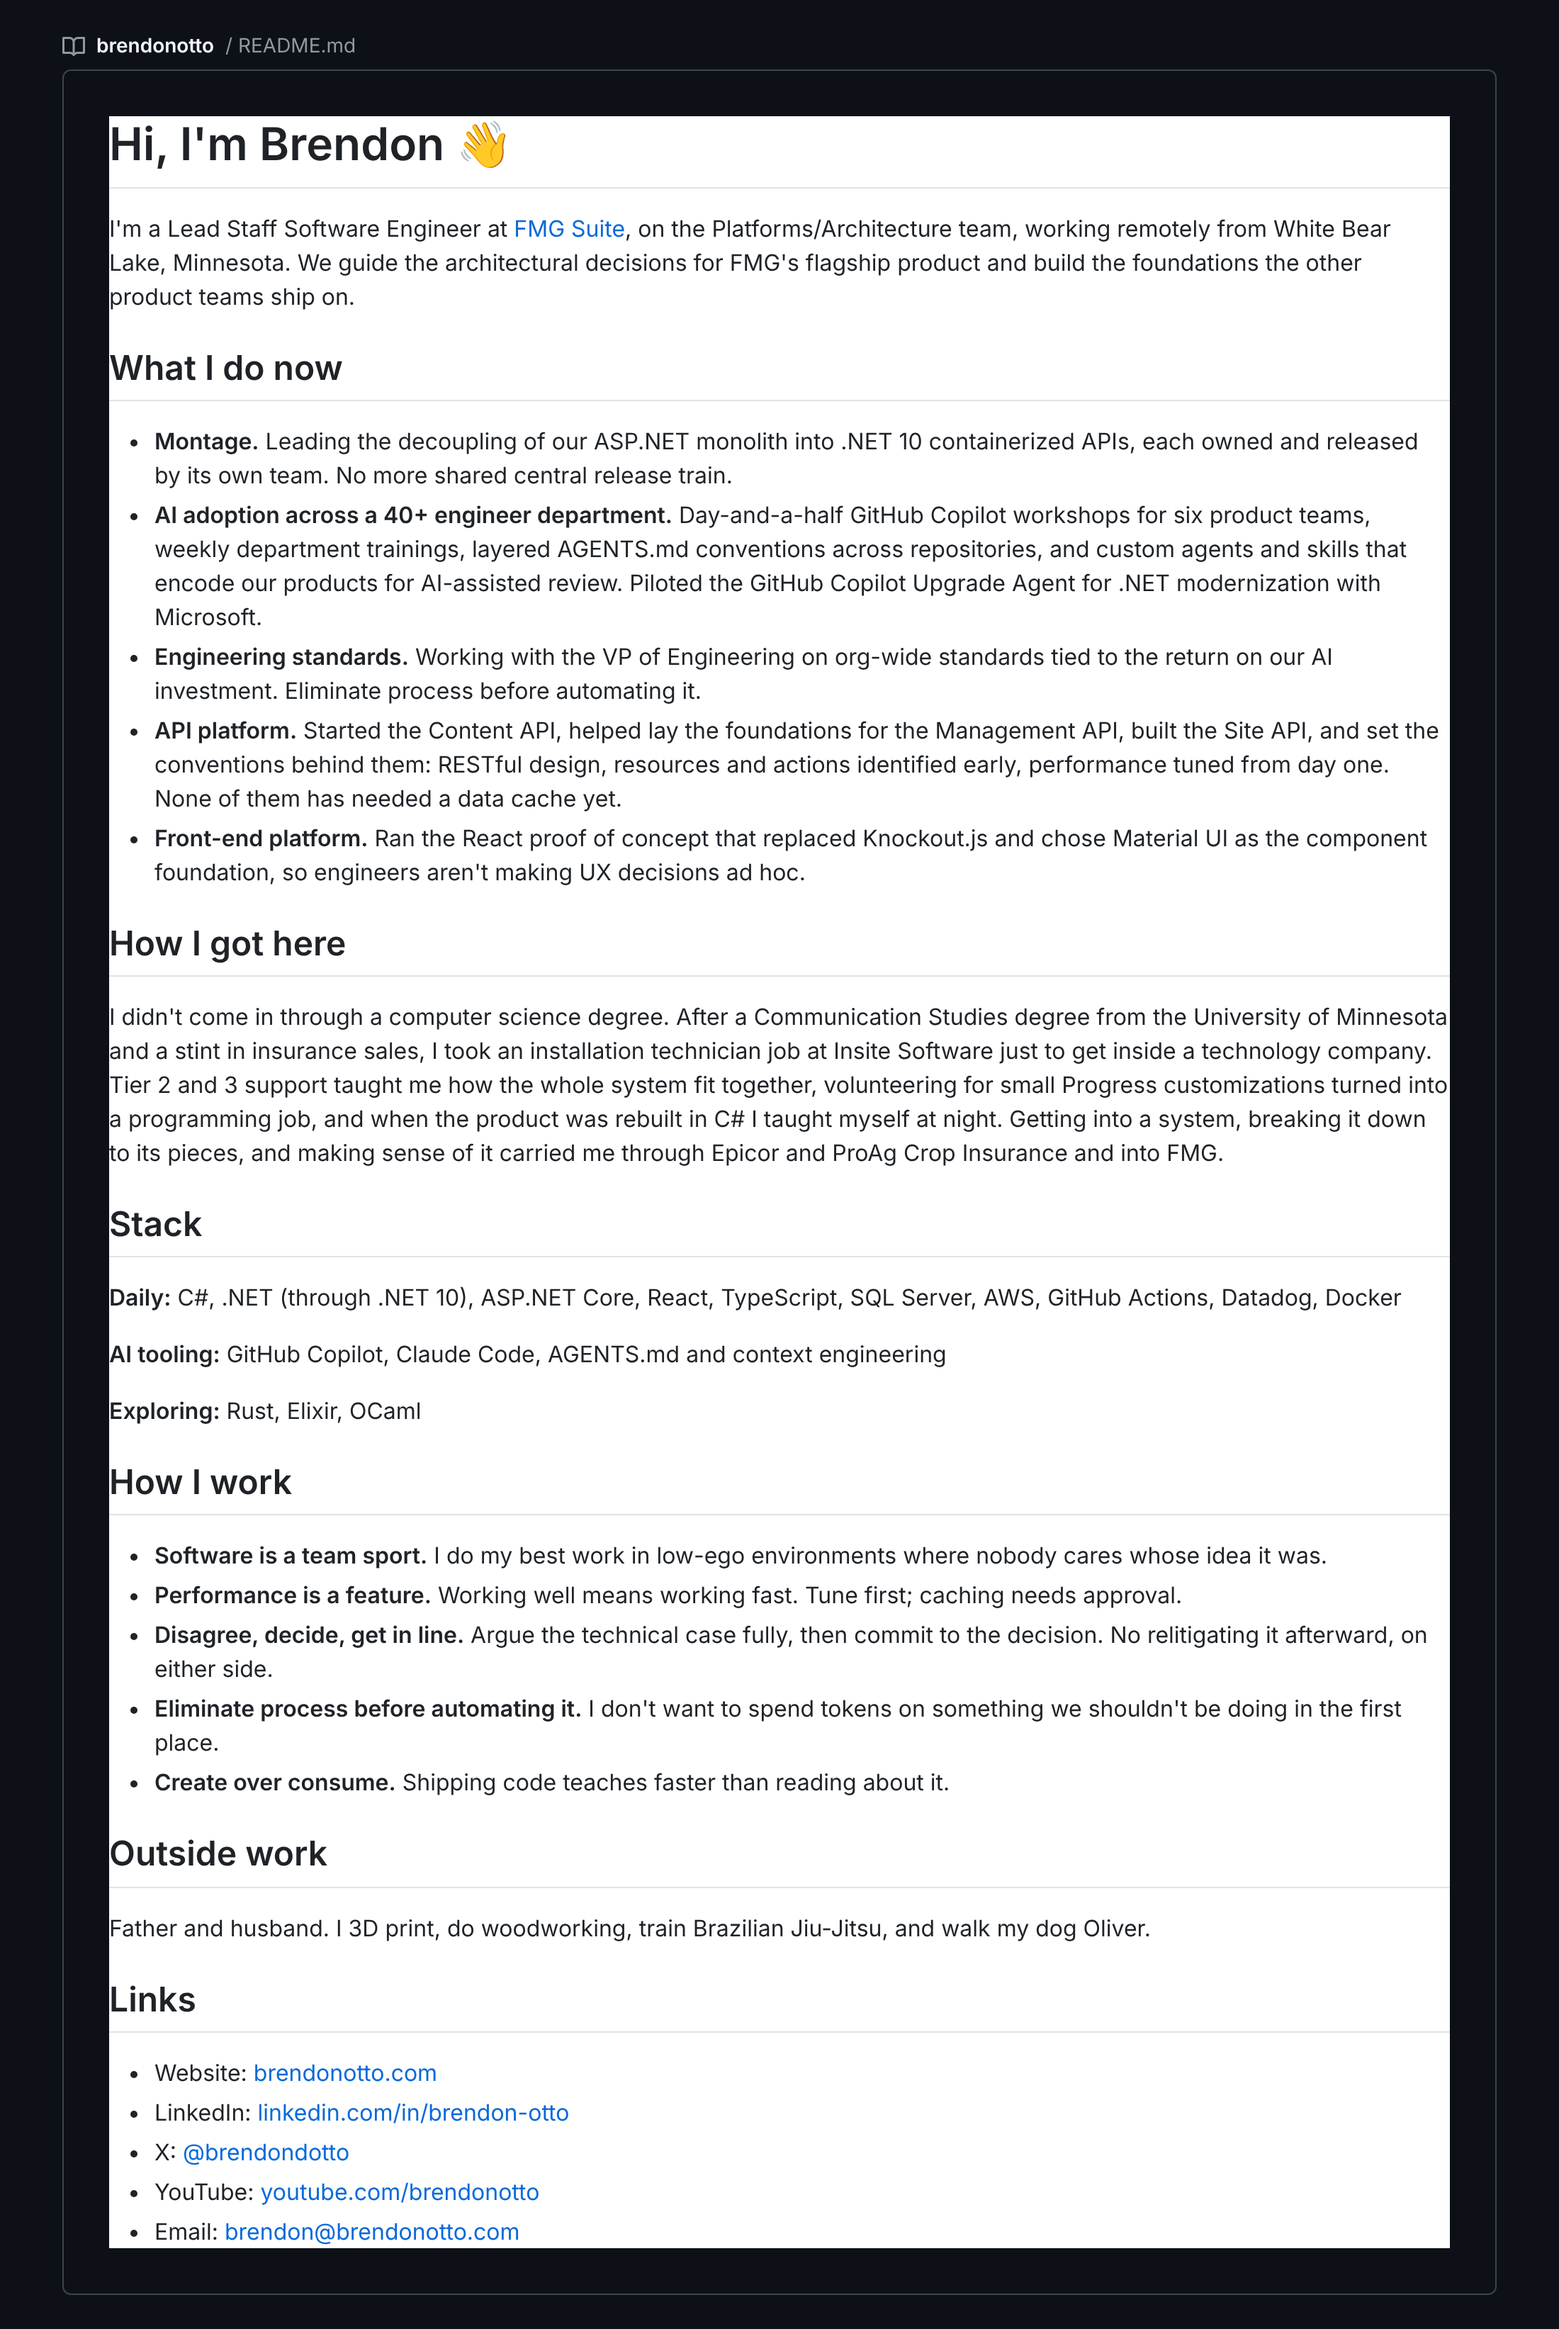
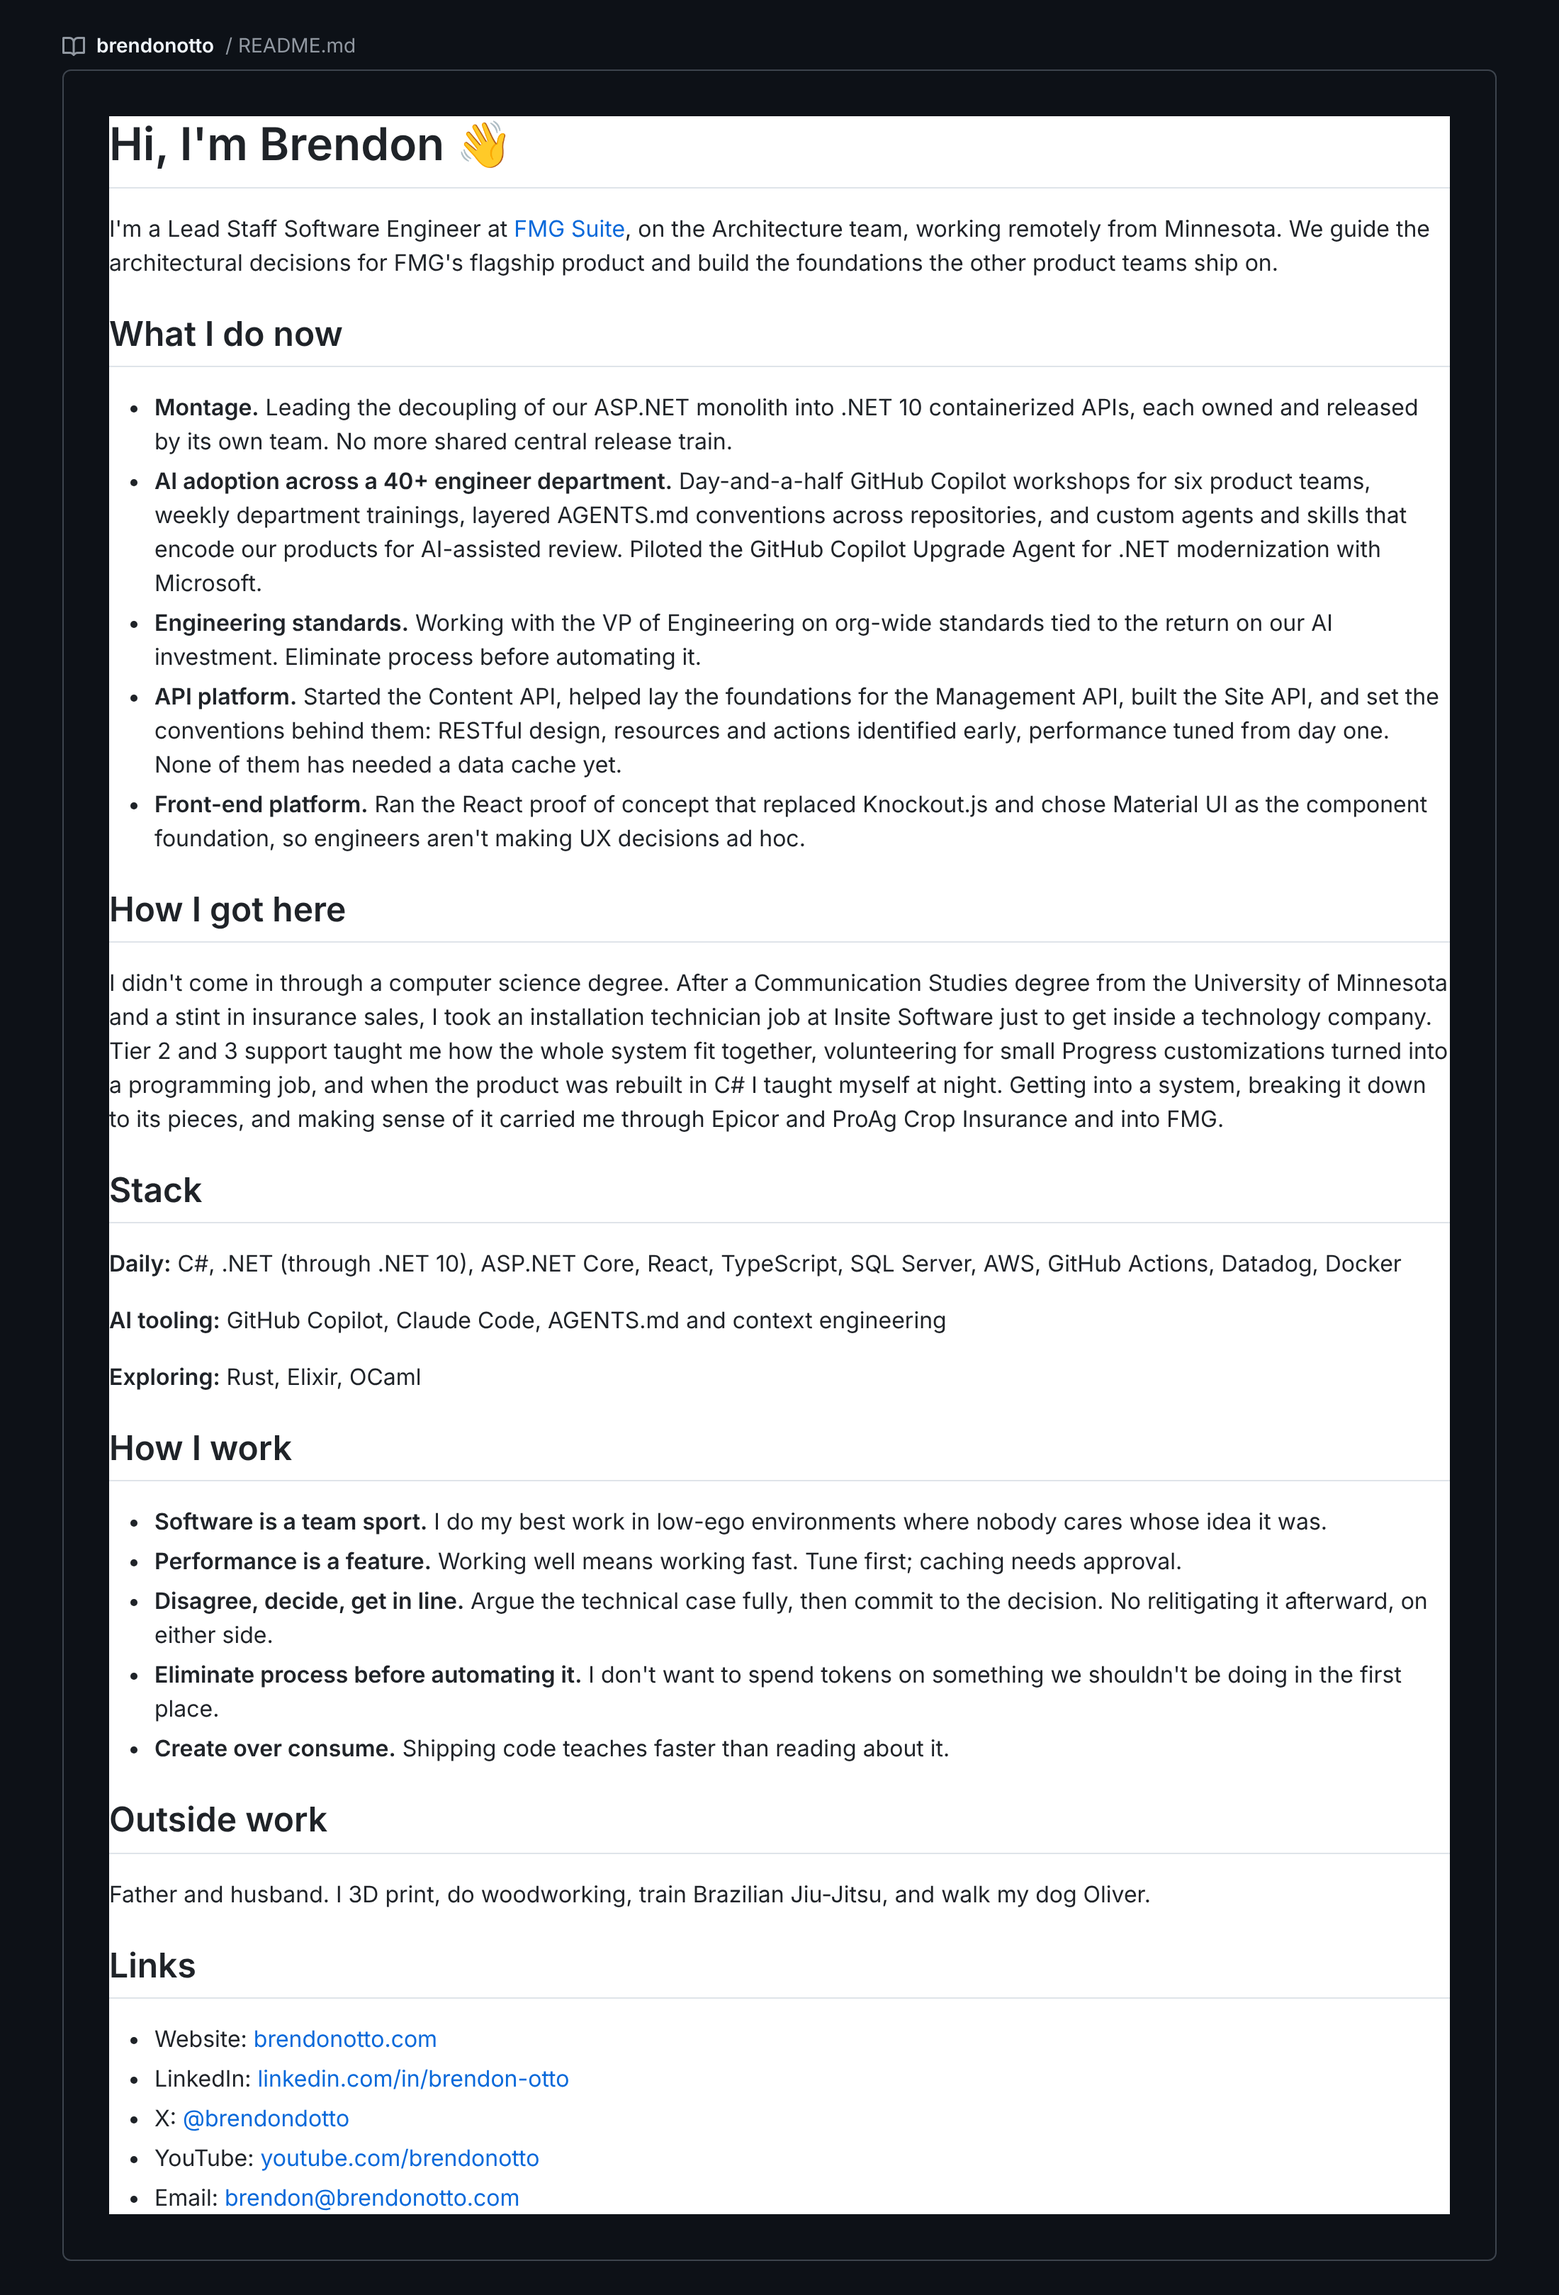
Simplify README intro to Architecture team and Minnesota
Drop "Platforms/" from the team name and the city from the location line
in the profile README draft, record both preferences in the README
output guide, and re-render the previews.

Claude-Session: https://claude.ai/code/session_01SLi5quowUpw19F6txyEKXM

diff --git a/drafts/github-profile/preview-dark.html b/drafts/github-profile/preview-dark.html
@@ -1237,7 +1237,7 @@ body{margin:0;background:#0d1117;font-family:-apple-system,BlinkMacSystemFont,"S
 </style></head><body><div class="wrap">
 <div class="repo-head"><svg width="16" height="16" viewBox="0 0 16 16" fill="currentColor"><path d="M0 1.75A.75.75 0 0 1 .75 1h4.253c1.227 0 2.317.59 3 1.501A3.743 3.743 0 0 1 11.006 1h4.245a.75.75 0 0 1 .75.75v10.5a.75.75 0 0 1-.75.75h-4.507a2.25 2.25 0 0 0-1.591.659l-.622.621a.75.75 0 0 1-1.06 0l-.622-.621A2.25 2.25 0 0 0 5.258 13H.75a.75.75 0 0 1-.75-.75Zm7.251 10.324.004-5.073-.002-2.253A2.25 2.25 0 0 0 5.003 2.5H1.5v9h3.757a3.75 3.75 0 0 1 1.994.574ZM8.755 4.75l-.004 7.322a3.752 3.752 0 0 1 1.992-.572H14.5v-9h-3.495a2.25 2.25 0 0 0-2.25 2.25Z"></path></svg> <b>brendonotto</b> / README.md</div>
 <div class="card"><article class="markdown-body"><h1>Hi, I&#39;m Brendon 👋</h1>
-<p>I&#39;m a Lead Staff Software Engineer at <a href="https://fmgsuite.com/">FMG Suite</a>, on the Platforms/Architecture team, working remotely from White Bear Lake, Minnesota. We guide the architectural decisions for FMG&#39;s flagship product and build the foundations the other product teams ship on.</p>
+<p>I&#39;m a Lead Staff Software Engineer at <a href="https://fmgsuite.com/">FMG Suite</a>, on the Architecture team, working remotely from Minnesota. We guide the architectural decisions for FMG&#39;s flagship product and build the foundations the other product teams ship on.</p>
 <h2>What I do now</h2>
 <ul>
 <li><strong>Montage.</strong> Leading the decoupling of our ASP.NET monolith into .NET 10 containerized APIs, each owned and released by its own team. No more shared central release train.</li>

diff --git a/drafts/github-profile/preview-light.html b/drafts/github-profile/preview-light.html
@@ -1237,7 +1237,7 @@ body{margin:0;background:#ffffff;font-family:-apple-system,BlinkMacSystemFont,"S
 </style></head><body><div class="wrap">
 <div class="repo-head"><svg width="16" height="16" viewBox="0 0 16 16" fill="currentColor"><path d="M0 1.75A.75.75 0 0 1 .75 1h4.253c1.227 0 2.317.59 3 1.501A3.743 3.743 0 0 1 11.006 1h4.245a.75.75 0 0 1 .75.75v10.5a.75.75 0 0 1-.75.75h-4.507a2.25 2.25 0 0 0-1.591.659l-.622.621a.75.75 0 0 1-1.06 0l-.622-.621A2.25 2.25 0 0 0 5.258 13H.75a.75.75 0 0 1-.75-.75Zm7.251 10.324.004-5.073-.002-2.253A2.25 2.25 0 0 0 5.003 2.5H1.5v9h3.757a3.75 3.75 0 0 1 1.994.574ZM8.755 4.75l-.004 7.322a3.752 3.752 0 0 1 1.992-.572H14.5v-9h-3.495a2.25 2.25 0 0 0-2.25 2.25Z"></path></svg> <b>brendonotto</b> / README.md</div>
 <div class="card"><article class="markdown-body"><h1>Hi, I&#39;m Brendon 👋</h1>
-<p>I&#39;m a Lead Staff Software Engineer at <a href="https://fmgsuite.com/">FMG Suite</a>, on the Platforms/Architecture team, working remotely from White Bear Lake, Minnesota. We guide the architectural decisions for FMG&#39;s flagship product and build the foundations the other product teams ship on.</p>
+<p>I&#39;m a Lead Staff Software Engineer at <a href="https://fmgsuite.com/">FMG Suite</a>, on the Architecture team, working remotely from Minnesota. We guide the architectural decisions for FMG&#39;s flagship product and build the foundations the other product teams ship on.</p>
 <h2>What I do now</h2>
 <ul>
 <li><strong>Montage.</strong> Leading the decoupling of our ASP.NET monolith into .NET 10 containerized APIs, each owned and released by its own team. No more shared central release train.</li>

diff --git a/.claude/skills/about-brendon/references/outputs/github-readme.md b/.claude/skills/about-brendon/references/outputs/github-readme.md
@@ -4,7 +4,7 @@ The README in the `brendonotto/brendonotto` repository renders at the top of git
 
 ## Structure (keep to roughly 40–70 lines of Markdown)
 
-1. **Greeting + one-line identity.** `# Hi, I'm Brendon 👋` then one sentence: title, company, what the Architecture team does. One emoji total is enough.
+1. **Greeting + one-line identity.** `# Hi, I'm Brendon 👋` then one sentence: title, company, what the Architecture team does. Call it "the Architecture team" (not "Platforms/Architecture"). Say "working remotely from Minnesota" and do not name the city. One emoji total is enough.
 2. **What I do now.** Three to five bullets, present tense, each a concrete responsibility or current project: Montage, AI adoption across the department, API standards, React/Material UI platform. Lead with the most impressive scope.
 3. **How I got here.** Two or three sentences of the origin story (Communication Studies → insurance sales → install tech → engineer). This is what makes the README memorable.
 4. **Stack.** A short line or compact list: daily stack, then "exploring" (Rust, Elixir, OCaml). Skip legacy tech he no longer wants to work in. Shields.io badges are optional; if used, keep to one row and only for the daily stack.

diff --git a/drafts/github-profile/README.md b/drafts/github-profile/README.md
@@ -1,6 +1,6 @@
 # Hi, I'm Brendon 👋
 
-I'm a Lead Staff Software Engineer at [FMG Suite](https://fmgsuite.com/), on the Platforms/Architecture team, working remotely from White Bear Lake, Minnesota. We guide the architectural decisions for FMG's flagship product and build the foundations the other product teams ship on.
+I'm a Lead Staff Software Engineer at [FMG Suite](https://fmgsuite.com/), on the Architecture team, working remotely from Minnesota. We guide the architectural decisions for FMG's flagship product and build the foundations the other product teams ship on.
 
 ## What I do now
 
